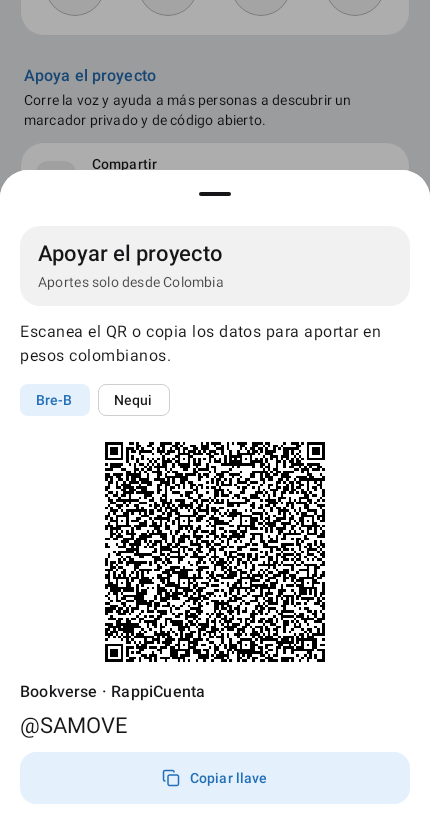
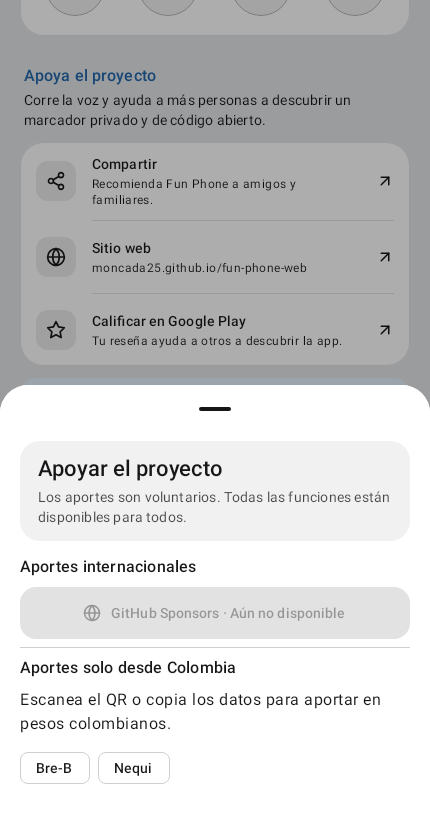
feat: prepare international GitHub Sponsors contributions

diff --git a/feature/settings/src/main/java/com/bookverse/contacts/ui/screens/settings/AboutScreen.kt b/feature/settings/src/main/java/com/bookverse/contacts/ui/screens/settings/AboutScreen.kt
@@ -128,6 +128,7 @@ private object AboutLinks {
     const val LICENSE = "$REPOSITORY/blob/main/LICENSE"
     const val WEBSITE = "https://moncada25.github.io/fun-phone-web/"
     const val PLAY_STORE = "https://play.google.com/store/apps/details?id=com.bookverse.contacts"
+    const val GITHUB_SPONSORS = "https://github.com/sponsors/Moncada25"
     const val DEVELOPER_GITHUB = "https://github.com/Moncada25"
     const val DEVELOPER_LINKEDIN = "https://www.linkedin.com/in/santiagomoncadavelez/"
 }
@@ -146,6 +147,7 @@ private data class AboutLinkItem(
 @Composable
 fun AboutScreen(
     onBack: () -> Unit,
+    gitHubSponsorsEnabled: Boolean = false,
 ) {
     val colorScheme = MaterialTheme.colorScheme
     val context = LocalContext.current
@@ -421,12 +423,13 @@ fun AboutScreen(
     }
 
     if (showDonationSheet) {
-        var useNequi by rememberSaveable { mutableStateOf(false) }
+        var localMethod by rememberSaveable { mutableStateOf<ColombianPaymentMethod?>(null) }
+        val useNequi = localMethod == ColombianPaymentMethod.NEQUI
         val paymentId = stringResource(if (useNequi) R.string.about_nequi_number else R.string.about_breb_key)
         val recipient = stringResource(if (useNequi) R.string.about_nequi_recipient else R.string.about_breb_recipient)
         SettingsSheetScaffold(
             title = stringResource(R.string.about_support_project),
-            subtitle = stringResource(R.string.about_colombia_only),
+            subtitle = stringResource(R.string.about_voluntary_contribution),
             onDismiss = { showDonationSheet = false },
         ) {
             Column(
@@ -437,58 +440,89 @@ fun AboutScreen(
                     .verticalScroll(rememberScrollState()),
                 verticalArrangement = Arrangement.spacedBy(8.dp),
             ) {
+                Text(
+                    stringResource(R.string.about_international_contribution),
+                    style = MaterialTheme.typography.titleMedium,
+                    modifier = Modifier.semantics { heading() },
+                )
+                AboutActionButton(
+                    label = stringResource(
+                        if (gitHubSponsorsEnabled) R.string.about_github_sponsors else R.string.about_sponsors_unavailable,
+                    ),
+                    icon = Lucide.Globe,
+                    onClick = { open(AboutLinks.GITHUB_SPONSORS) },
+                    enabled = gitHubSponsorsEnabled,
+                )
+                HorizontalDivider()
+                Text(
+                    stringResource(R.string.about_colombia_only),
+                    style = MaterialTheme.typography.titleMedium,
+                    modifier = Modifier.semantics { heading() },
+                )
                 Text(stringResource(R.string.about_donation_instructions))
                 Row(
                     modifier = Modifier.selectableGroup(),
                     horizontalArrangement = Arrangement.spacedBy(8.dp),
                 ) {
                     FilterChip(
-                        selected = !useNequi,
-                        onClick = { useNequi = false },
+                        selected = localMethod == ColombianPaymentMethod.BREB,
+                        onClick = { localMethod = ColombianPaymentMethod.BREB },
                         label = { Text(stringResource(R.string.about_breb_label)) },
                     )
                     FilterChip(
                         selected = useNequi,
-                        onClick = { useNequi = true },
+                        onClick = { localMethod = ColombianPaymentMethod.NEQUI },
                         label = { Text(stringResource(R.string.about_nequi_label)) },
                     )
                 }
-                Image(
-                    bitmap = ImageBitmap.imageResource(
-                        if (useNequi) R.drawable.about_qr_nequi else R.drawable.about_qr_breb,
-                    ),
-                    contentDescription = stringResource(
-                        R.string.about_donation_qr,
-                        stringResource(if (useNequi) R.string.about_nequi_label else R.string.about_breb_label),
-                    ),
-                    modifier = Modifier.align(Alignment.CenterHorizontally).size(240.dp),
-                    filterQuality = FilterQuality.None,
-                )
-                Text(recipient, style = MaterialTheme.typography.titleMedium)
-                Text(paymentId, style = MaterialTheme.typography.titleLarge)
+                if (localMethod != null) {
+                    Image(
+                        bitmap = ImageBitmap.imageResource(
+                            if (useNequi) R.drawable.about_qr_nequi else R.drawable.about_qr_breb,
+                        ),
+                        contentDescription = stringResource(
+                            R.string.about_donation_qr,
+                            stringResource(if (useNequi) R.string.about_nequi_label else R.string.about_breb_label),
+                        ),
+                        modifier = Modifier.align(Alignment.CenterHorizontally).size(240.dp),
+                        filterQuality = FilterQuality.None,
+                    )
+                    Text(recipient, style = MaterialTheme.typography.titleMedium)
+                    Text(paymentId, style = MaterialTheme.typography.titleLarge)
+                }
             }
-            AboutActionButton(
-                label = stringResource(if (useNequi) R.string.about_copy_nequi_number else R.string.about_copy_breb_key),
-                icon = Lucide.Copy,
-                onClick = {
-                    ContactUtils.copyToClipboard(context, paymentId, toast = false)
-                    showDonationSheet = false
-                    scope.launch {
-                        snackbar.show(
-                            message = resources.getString(CoreUiR.string.copied_to_clipboard),
-                            type = SnackbarType.Info,
-                        )
-                    }
-                },
-            )
+            if (localMethod != null) {
+                AboutActionButton(
+                    label = stringResource(if (useNequi) R.string.about_copy_nequi_number else R.string.about_copy_breb_key),
+                    icon = Lucide.Copy,
+                    onClick = {
+                        ContactUtils.copyToClipboard(context, paymentId, toast = false)
+                        showDonationSheet = false
+                        scope.launch {
+                            snackbar.show(
+                                message = resources.getString(CoreUiR.string.copied_to_clipboard),
+                                type = SnackbarType.Info,
+                            )
+                        }
+                    },
+                )
+            }
         }
     }
 }
 
+private enum class ColombianPaymentMethod { BREB, NEQUI }
+
 @Composable
-private fun AboutActionButton(label: String, icon: ImageVector, onClick: () -> Unit) {
+private fun AboutActionButton(
+    label: String,
+    icon: ImageVector,
+    onClick: () -> Unit,
+    enabled: Boolean = true,
+) {
     FilledTonalButton(
         onClick = onClick,
+        enabled = enabled,
         modifier = Modifier.fillMaxWidth().heightIn(min = 52.dp),
         shape = RoundedCornerShape(16.dp),
     ) {

diff --git a/app/src/androidTest/java/com/bookverse/contacts/ui/screens/settings/AboutScreenTest.kt b/app/src/androidTest/java/com/bookverse/contacts/ui/screens/settings/AboutScreenTest.kt
@@ -7,6 +7,7 @@ import androidx.compose.material3.darkColorScheme
 import androidx.compose.material3.MaterialTheme
 import androidx.compose.runtime.CompositionLocalProvider
 import androidx.compose.ui.test.assertHasClickAction
+import androidx.compose.ui.test.assertIsNotEnabled
 import androidx.compose.ui.test.assertIsDisplayed
 import androidx.compose.ui.test.hasContentDescription
 import androidx.compose.ui.test.hasClickAction
@@ -17,6 +18,7 @@ import androidx.compose.ui.test.onAllNodesWithText
 import androidx.compose.ui.test.onNodeWithContentDescription
 import androidx.compose.ui.test.onNodeWithText
 import androidx.compose.ui.test.performClick
+import androidx.compose.ui.test.performScrollTo
 import androidx.compose.ui.test.performScrollToNode
 import androidx.compose.ui.platform.LocalLayoutDirection
 import androidx.compose.ui.platform.LocalDensity
@@ -125,15 +127,29 @@ class AboutScreenTest {
     }
 
     @Test
+    fun unavailableSponsorsShowsStatusBeforeChoosingALocalMethod() {
+        showAboutScreen()
+        scrollTo(SettingsR.string.about_support_project)
+        composeRule.onNodeWithText(string(SettingsR.string.about_support_project)).performClick()
+
+        composeRule.onNodeWithText(string(SettingsR.string.about_international_contribution)).assertIsDisplayed()
+        composeRule.onNodeWithText(string(SettingsR.string.about_sponsors_unavailable)).assertIsNotEnabled()
+        composeRule.onNodeWithText(string(SettingsR.string.about_colombia_only)).assertIsDisplayed()
+        composeRule.onNodeWithText(string(SettingsR.string.about_copy_breb_key)).assertDoesNotExist()
+        composeRule.onNodeWithText(string(SettingsR.string.about_copy_nequi_number)).assertDoesNotExist()
+    }
+
+    @Test
     fun copiesDisplayedBreBKey() {
         showAboutScreen()
         scrollTo(SettingsR.string.about_support_project)
         composeRule.onNodeWithText(string(SettingsR.string.about_support_project)).performClick()
+        composeRule.onNodeWithText(string(SettingsR.string.about_breb_label)).performClick()
         composeRule.onNodeWithContentDescription(
             string(SettingsR.string.about_donation_qr, string(SettingsR.string.about_breb_label)),
         ).assertIsDisplayed()
         val key = string(SettingsR.string.about_breb_key)
-        composeRule.onNodeWithText(key).assertIsDisplayed()
+        composeRule.onNodeWithText(key).performScrollTo().assertIsDisplayed()
         composeRule.onNodeWithText(string(SettingsR.string.about_copy_breb_key)).performClick()
         composeRule.waitForIdle()
 
@@ -154,7 +170,7 @@ class AboutScreenTest {
             string(SettingsR.string.about_donation_qr, string(SettingsR.string.about_nequi_label)),
         ).assertIsDisplayed()
         val number = string(SettingsR.string.about_nequi_number)
-        composeRule.onNodeWithText(number).assertIsDisplayed()
+        composeRule.onNodeWithText(number).performScrollTo().assertIsDisplayed()
         composeRule.onNodeWithText(string(SettingsR.string.about_copy_nequi_number)).performClick()
 
         composeRule.runOnIdle {

diff --git a/app/src/main/java/com/bookverse/contacts/ui/navigation/SecondaryScreenContent.kt b/app/src/main/java/com/bookverse/contacts/ui/navigation/SecondaryScreenContent.kt
@@ -340,6 +340,7 @@ fun SecondaryScreenContent(
         )
 
         SecondaryScreen.ABOUT -> AboutScreen(
+            gitHubSponsorsEnabled = BuildConfig.GITHUB_SPONSORS_ENABLED,
             onBack = { navigationViewModel.navigateBack() },
         )
 

diff --git a/RELEASING.md b/RELEASING.md
@@ -36,6 +36,20 @@ caf15843b5efc692ff6dec15e989d2fb32946dfc089453dfc6d31edf242b7151
 - Never commit keystores, passwords or the private properties file, and never paste them in issues,
   PRs or logs.
 
+## GitHub Sponsors in About
+
+The support sheet offers voluntary contributions. A contribution leaves all app features available to everyone.
+The `GITHUB_SPONSORS_ENABLED` field in each distribution flavor in `app/build.gradle.kts` controls the
+external link. Enable it for Community once the maintainer's public Sponsors page accepts contributions.
+
+For Play, verify the actual sponsorship checkout and available tiers first. Google classifies direct tips as
+peer-to-peer when the creator receives the full tip and the contribution grants no digital content or services.
+GitHub documents zero fees for personal sponsors and fees of up to 6% for organization sponsors. Check who
+pays any fee and whether sponsorship grants benefits such as badges or private repository access. Keep the
+Play link disabled if the available flow falls outside the exception or its eligibility is unclear.
+[Google Play payments FAQ](https://support.google.com/googleplay/android-developer/answer/10281818?hl=en) ·
+[GitHub Sponsors billing](https://docs.github.com/en/billing/concepts/third-party-payments/github-sponsors)
+
 ## 1. Prepare the release PR
 
 On a branch from an up-to-date `main` (for example `release/X.Y.Z`):
